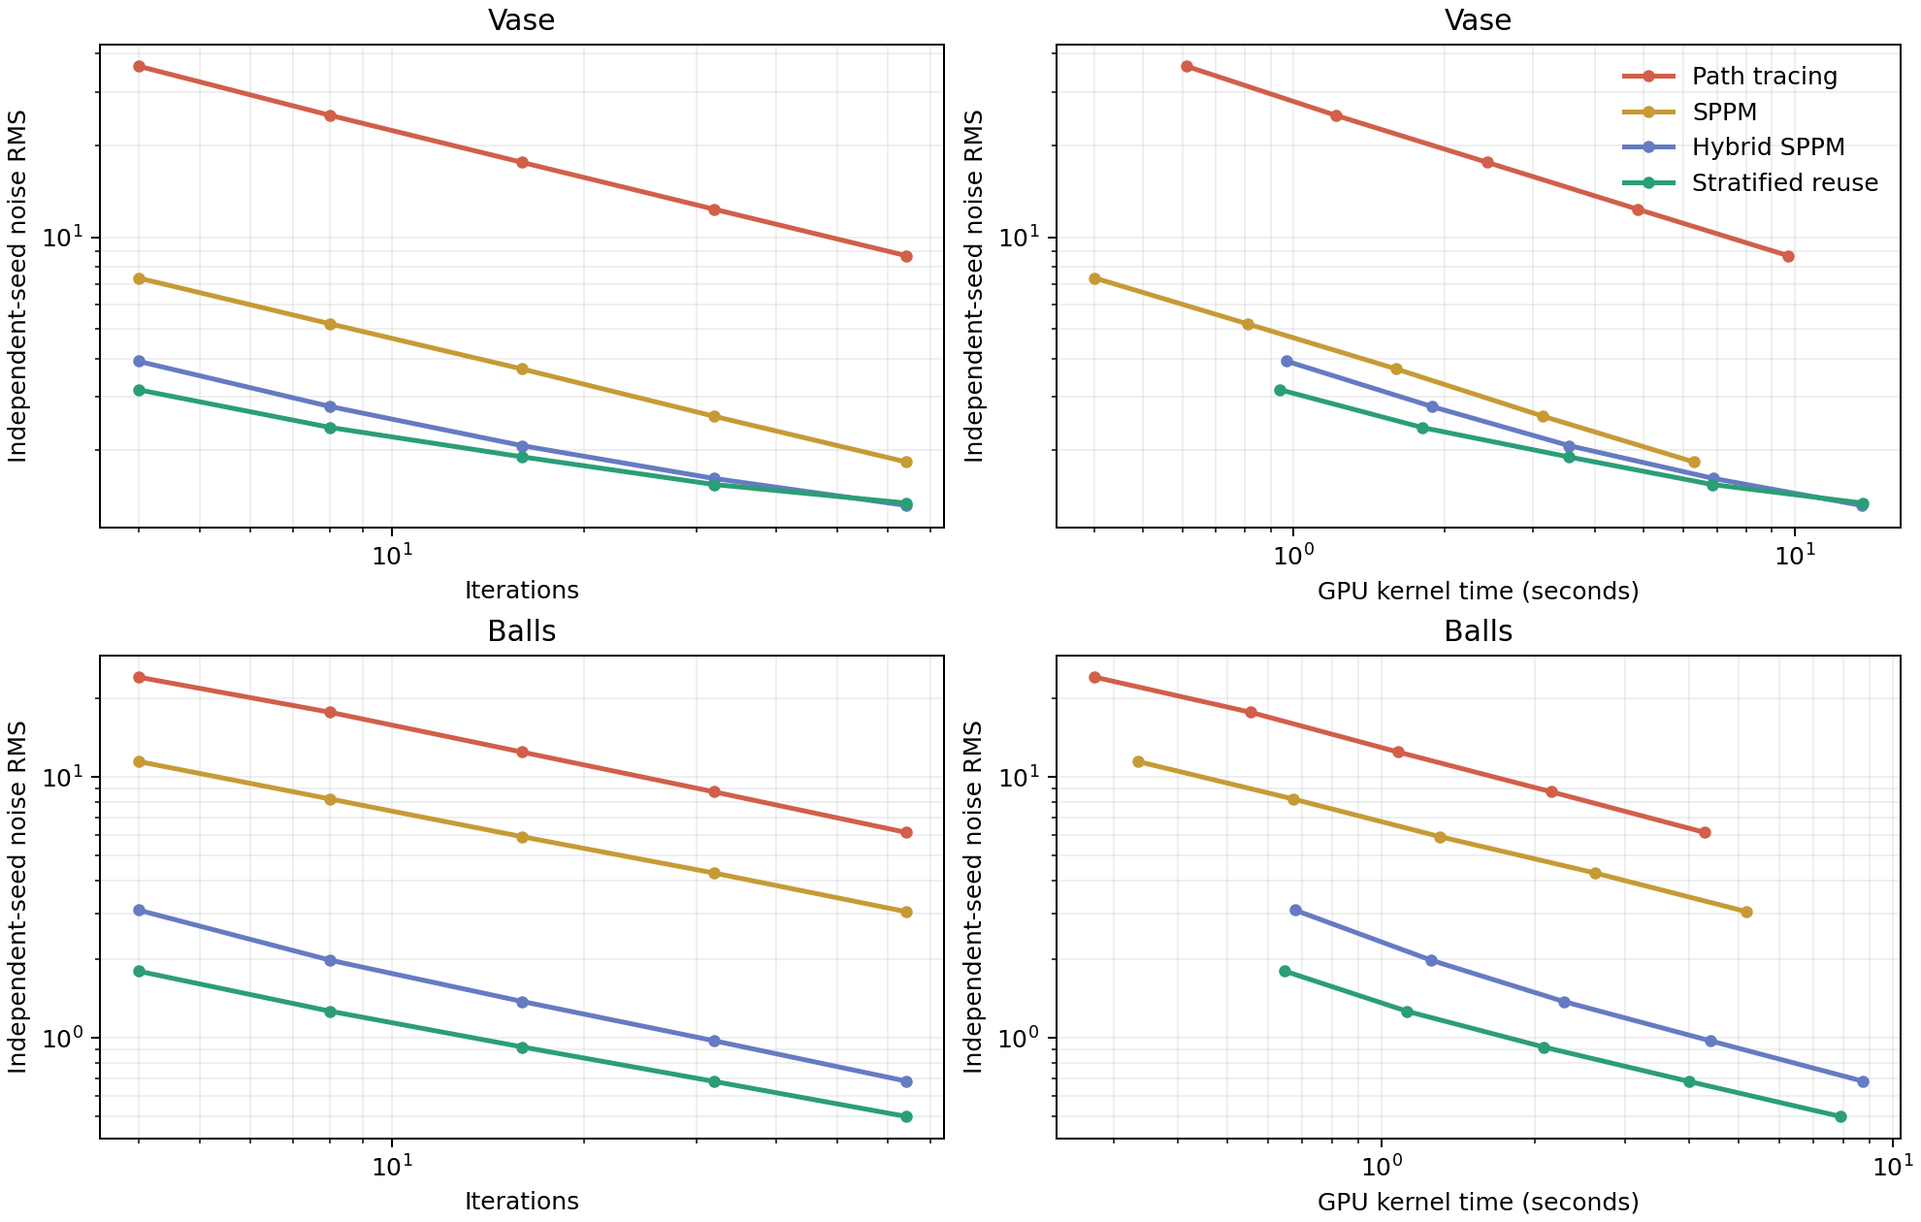
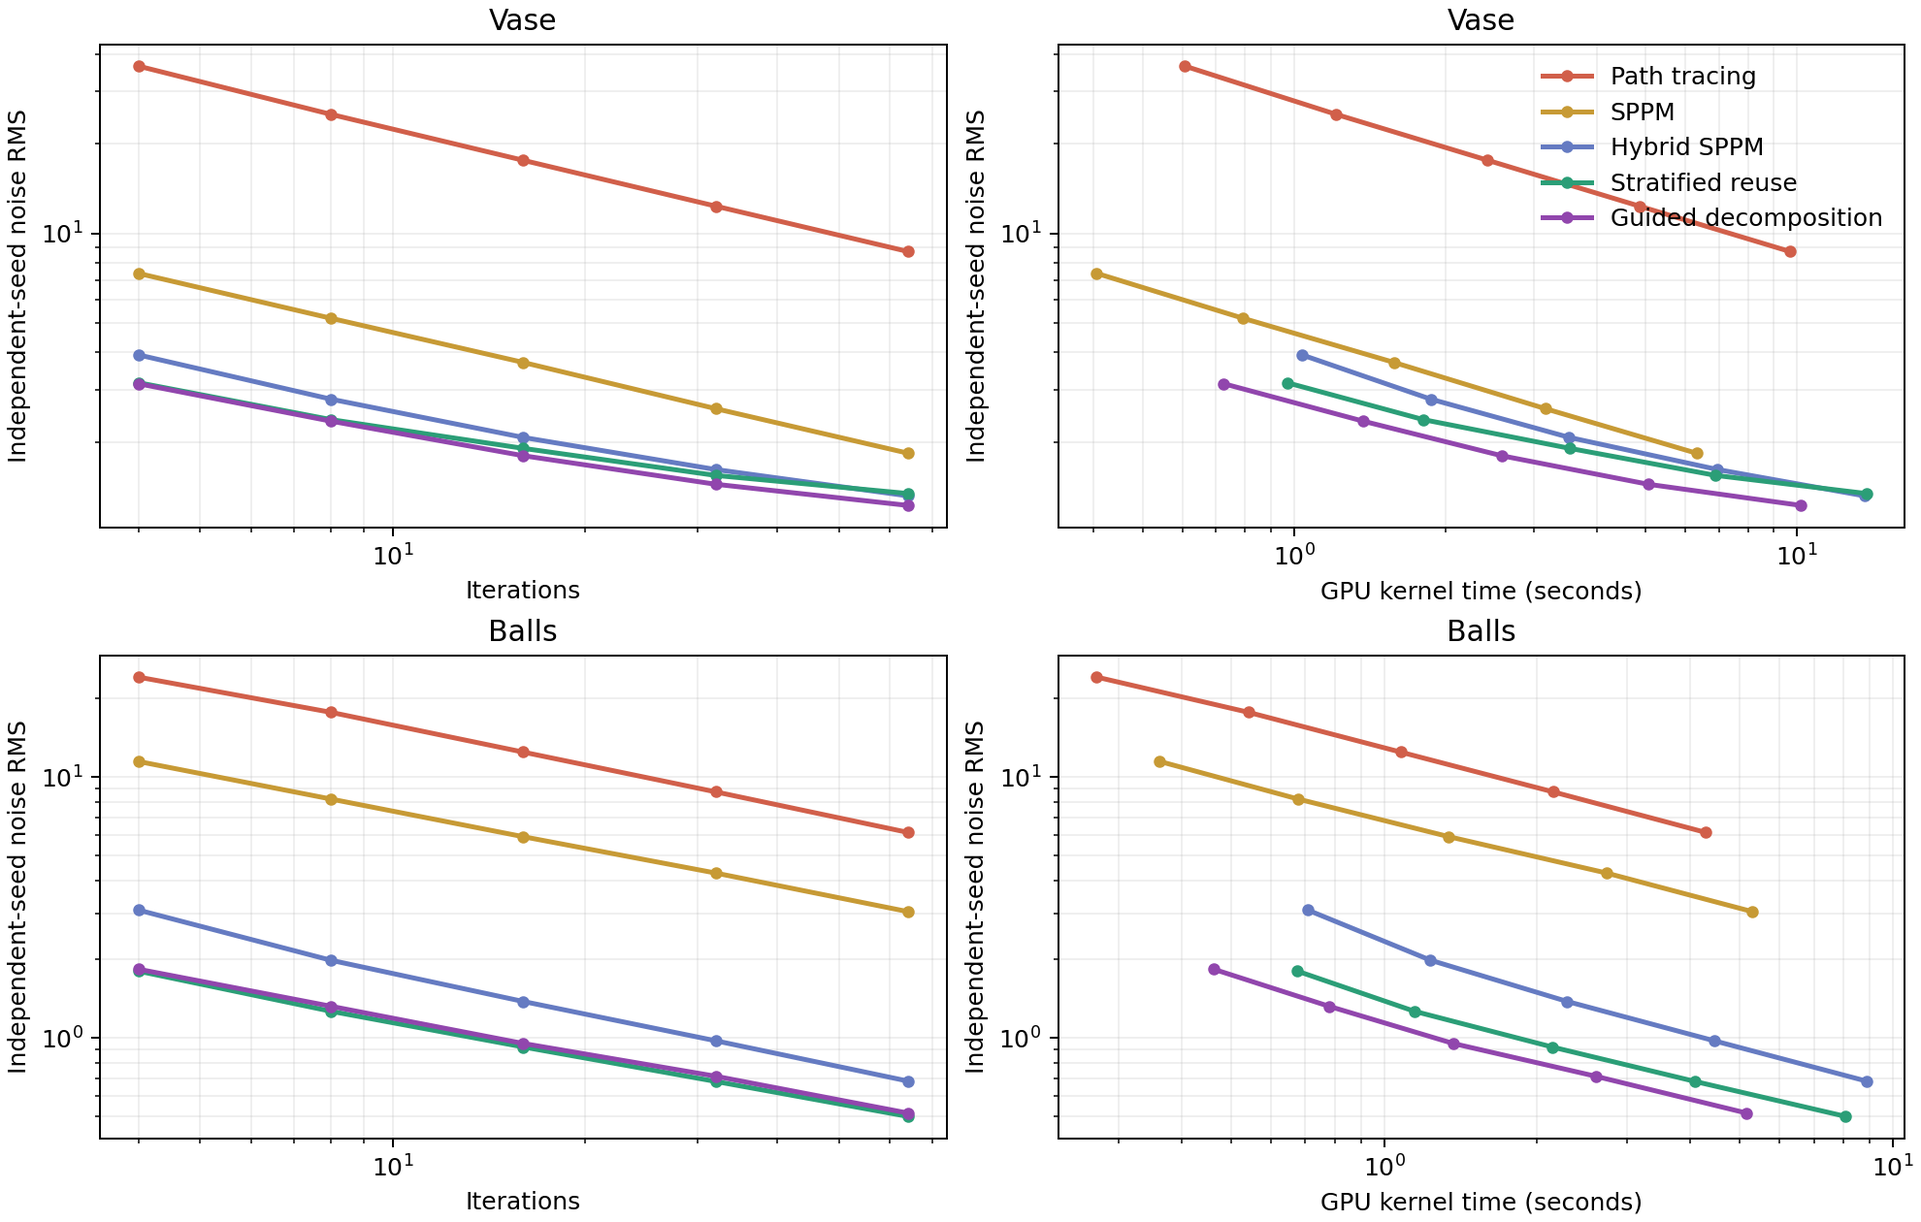
Add guided light decomposition and low-discrepancy photon transport

diff --git a/hw2/sppm/benchmark.py b/hw2/sppm/benchmark.py
@@ -34,11 +34,13 @@ def run_job(job, options, directory):
     else:
         command += [str(iterations), "5" if scene == "vase" else "8", ".5", "1"]
     command += ["--scene", scene, "--nearest", "--seed", str(seed)]
-    if algorithm in ("hybrid", "reuse"):
+    if algorithm in ("hybrid", "reuse", "guided"):
         command += ["--hybrid-samples", str(iterations * 16), "--reconstruction-radius",
                     "4" if scene == "vase" else "8"]
     if algorithm == "reuse":
         command.append("--reuse")
+    if algorithm == "guided":
+        command.append("--guided")
     result = subprocess.run(command, cwd=options.binary.parent,
                             env=dict(os.environ, CUDA_VISIBLE_DEVICES=str(gpu)),
                             text=True, stdout=subprocess.PIPE, stderr=subprocess.PIPE)
@@ -92,9 +94,10 @@ def summarize(records, width, height):
 def plot(summaries, destination):
     import matplotlib.pyplot as plt
 
-    colors = {"pt": "#d15f4a", "sppm": "#c79a35", "hybrid": "#657bc2", "reuse": "#2b9e77"}
+    colors = {"pt": "#d15f4a", "sppm": "#c79a35", "hybrid": "#657bc2", "reuse": "#2b9e77",
+              "guided": "#9146ad"}
     names = {"pt": "Path tracing", "sppm": "SPPM", "hybrid": "Hybrid SPPM",
-             "reuse": "Stratified reuse"}
+             "reuse": "Stratified reuse", "guided": "Guided decomposition"}
     figure, axes = plt.subplots(2, 2, figsize=(11, 7), constrained_layout=True)
     for row, scene in enumerate(("vase", "balls")):
         for algorithm in colors:
@@ -120,7 +123,7 @@ def main():
     parser = argparse.ArgumentParser(description=__doc__)
     parser.add_argument("--binary", type=Path, default=Path("./render-cuda"))
     parser.add_argument("--output", type=Path, default=Path("/tmp/sppm-convergence"))
-    parser.add_argument("--algorithms", default="pt,sppm,hybrid,reuse")
+    parser.add_argument("--algorithms", default="pt,sppm,hybrid,reuse,guided")
     parser.add_argument("--iterations", default="4,8,16,32,64")
     parser.add_argument("--seeds", default="0,1,2,3")
     parser.add_argument("--gpus", default="0")

diff --git a/README.md b/README.md
@@ -43,7 +43,7 @@ OpenMP: 2, GPU: 5
 其他额外效果: 凹凸贴图、体积光等: [5, ?]
 ```
 
-代码基于 smallpt，实现路径追踪（PT）、随机渐进式光子映射（SPPM）、CUDA Hybrid SPPM，以及进一步降低噪声的分层复用 Hybrid SPPM。原始花瓶场景与原 `balls` 分支的玻璃球场景现在都在 `master`，通过 `--scene vase` / `--scene balls` 直接切换，不需要 checkout 其他分支。旋转 Bezier 曲面、彩色纹理、镜面反射、玻璃折射和光源构图均保留原始设定。课程报告见 [hw2/report.pdf](hw2/report.pdf)。
+代码基于 smallpt，实现路径追踪（PT）、随机渐进式光子映射（SPPM）、CUDA Hybrid SPPM、分层复用 Hybrid SPPM，以及直接光分解和低差异引导的 Guided Hybrid SPPM。原始花瓶场景与原 `balls` 分支的玻璃球场景现在都在 `master`，通过 `--scene vase` / `--scene balls` 直接切换，不需要 checkout 其他分支。旋转 Bezier 曲面、彩色纹理、镜面反射、玻璃折射和光源构图均保留原始设定。课程报告见 [hw2/report.pdf](hw2/report.pdf)。
 
 ### 直接渲染结果
 
@@ -51,13 +51,13 @@ OpenMP: 2, GPU: 5
 
 **花瓶：**
 
-![花瓶场景：CUDA 混合低方差 SPPM 直接渲染](docs/render/vase-hybrid-sppm.png)
+![花瓶场景：CUDA Guided Hybrid SPPM 直接渲染](docs/render/vase-guided-sppm.png)
 
 **Balls：**
 
-![Balls 场景：CUDA 混合低方差 SPPM 直接渲染](docs/render/balls-hybrid-sppm.png)
+![Balls 场景：CUDA Guided Hybrid SPPM 直接渲染](docs/render/balls-guided-sppm.png)
 
-### 新算法：分层复用 Hybrid SPPM
+### 新算法：Guided Hybrid SPPM
 
 直接 PT 从相机随机寻找光源，漫反射表面上的大部分路径贡献很小；传统 SPPM 能稳定找到焦散，但容易把镜面高光和清晰倒影混进光子半径，或者把大量阴影样本浪费在看不见的光源上。新算法把同一条光传输积分拆成适合不同采样器的部分：
 
@@ -73,6 +73,18 @@ $$L_o = L_{\mathrm{diffuse,SPPM}} + L_{\mathrm{specular,PT}} + L_{\mathrm{direct
 
 换句话说，速度提升来自**减少无效光路、降低 estimator 方差、复用兼容样本并加速光子查询**，不是换掉场景、暗化画面或者把高光统一涂抹。实现见 [hw2/sppm/cuda.cu](hw2/sppm/cuda.cu)，完整实验脚本见 [hw2/sppm/benchmark.py](hw2/sppm/benchmark.py)。
 
+#### 再往前一步：从光传输积分减少无效工作
+
+对上一版 `--reuse` 做 Nsight profile 后，花瓶的 GPU 时间中 55% 是镜面/折射路径、45% 是光子；balls 是 53% 光子、40% 镜面/折射、6% 弱镜面。两轮空间重建合计不到 0.1%。因此继续调整后处理核不会带来速度突破；真正的问题是同一份直接光被低效光子估计，以及大量低贡献光子在场景里反弹太久。
+
+`--guided` 在已有分层复用之上增加三项改变：
+
+1. **无重叠地分解直接光与间接光。** 对存在外露光源的场景，摄像机可见点使用 next-event estimation 直接连接面积光；该光源的第一跳 diffuse 光子不再进入 photon gather。这样 $L_{\mathrm{direct}}$ 不会被算两次，光子预算专门留给间接照明、折射和焦散。被玻璃包住的光源仍使用完整光子路径，不会被错误当作可见面积光。
+2. **四维随机化低差异发光。** 对每个光子联合分层光源表面的两个坐标和余弦半球方向的两个坐标；每轮、每个 seed 都有独立 Cranley–Patterson 随机旋转。与互相独立的随机数相比，同样数量的光子能更均匀地覆盖发光位置与出射方向，同时保持正确的发射分布。
+3. **只对光子提前做无偏 Russian roulette。** 摄像机侧的反射、玻璃和花瓶高光仍完整追踪；低贡献光子从第一跳后开始按材质反照率决定是否继续，存活路径乘回 $1/p_{\mathrm{survive}}$。改变的是路径长度的计算成本，不是光传输积分或场景颜色。
+
+光源是否外露、低差异序列以及 Russian roulette 生存概率都由场景几何和材质自动决定，不识别特定场景名称、固定颜色或贴图文件。constant memory、可见对象 bitmask、把大球近似成平面，以及对玻璃分支强行分层也都做过实测，但分别造成访存串行化、额外同步或方差升高，因此没有放进最终实现。
+
 #### 同场景渲染对比
 
 下面的图使用相同场景、相机、光源和原始颜色；PT、普通 SPPM 与 Hybrid SPPM 分别单独直接渲染，不做后期调色。
@@ -83,46 +95,51 @@ $$L_o = L_{\mathrm{diffuse,SPPM}} + L_{\mathrm{specular,PT}} + L_{\mathrm{direct
 | CUDA SPPM | ![花瓶 SPPM](docs/render/vase-sppm.png) | ![Balls SPPM](docs/render/balls-sppm.png) |
 | CUDA Hybrid SPPM | ![花瓶 Hybrid SPPM](docs/render/vase-hybrid-comparison.png) | ![Balls Hybrid SPPM](docs/render/balls-hybrid-comparison.png) |
 | CUDA 分层复用 Hybrid SPPM | ![花瓶分层复用 Hybrid SPPM](docs/render/vase-reuse-comparison.png) | ![Balls 分层复用 Hybrid SPPM](docs/render/balls-reuse-comparison.png) |
+| CUDA Guided Hybrid SPPM | ![花瓶 Guided Hybrid SPPM](docs/render/vase-guided-comparison.png) | ![Balls Guided Hybrid SPPM](docs/render/balls-guided-comparison.png) |
 
-以上对比图分辨率均为 960×540；PT 使用每子像素 64 次采样，三种 SPPM 均使用 48 轮，花瓶每轮每像素 5 个光子、balls 每轮每像素 8 个光子。因为四种 estimator 的计算量不同，图片仅展示各自固定参数下的直接渲染效果；迭代次数、实际时间和独立 seed 噪声的严格对比见下表。
+以上对比图分辨率均为 960×540；PT 使用每子像素 64 次采样，四种 SPPM 均使用 48 轮，花瓶每轮每像素 5 个光子、balls 每轮每像素 8 个光子。因为五种 estimator 的计算量不同，图片仅展示各自固定参数下的直接渲染效果；迭代次数、实际时间和独立 seed 噪声的严格对比见下表。
 
-#### 160 次直接渲染的收敛基准
+#### 200 次直接渲染的收敛基准
 
-测试使用一张 NVIDIA H200、640×360 分辨率、四个独立随机种子，以及 4、8、16、32、64 五个迭代档位。PT 的“16 轮”等价于每子像素 128 次采样；其他算法是 16 轮光子映射。每个场景分别在五个固定区域测量 8-bit 亮度的跨 seed RMS，并对五个区域取 RMS 作为综合噪声；CUDA event 只统计 GPU kernel 时间，不包括 CUDA 初始化、贴图上传或图像写出。
+测试使用一张 NVIDIA H200、640×360 分辨率、五种算法、四个独立随机种子，以及 4、8、16、32、64 五个迭代档位，共 200 次独立直接渲染。PT 的“16 轮”等价于每子像素 128 次采样；其他算法是 16 轮光子映射。每个场景分别在五个固定区域测量 8-bit 亮度的跨 seed RMS，并对五个区域取 RMS 作为综合噪声；CUDA event 只统计 GPU kernel 时间，不包括 CUDA 初始化、贴图上传或图像写出。
 
-![四种算法按迭代次数和 GPU 实际耗时计算的独立随机种子噪声收敛曲线](docs/render/convergence.png)
+![五种算法按迭代次数和 GPU 实际耗时计算的独立随机种子噪声收敛曲线](docs/render/convergence.png)
 
 **16 轮、四个独立随机种子：**
 
 | 场景 | 算法 | GPU kernel | 综合噪声 RMS | 重点区域 A | 重点区域 B |
 | --- | --- | ---: | ---: | ---: | ---: |
-| 花瓶 | PT | 2.434 s | 17.615 | 白瓷 18.721 | 蓝花 19.021 |
-| 花瓶 | SPPM | 1.603 s | 3.699 | 白瓷 4.056 | 蓝花 4.932 |
-| 花瓶 | Hybrid SPPM | 3.547 s | 2.073 | 白瓷 2.179 | 蓝花 2.045 |
-| 花瓶 | 分层复用 Hybrid | 3.534 s | **1.905** | 白瓷 **1.958** | 蓝花 **1.862** |
-| Balls | PT | 1.079 s | 12.447 | 背景 13.898 | 玻璃 16.470 |
-| Balls | SPPM | 1.302 s | 5.901 | 背景 6.131 | 玻璃 6.129 |
-| Balls | Hybrid SPPM | 2.271 s | 1.379 | 背景 1.315 | 玻璃 1.934 |
-| Balls | 分层复用 Hybrid | 2.074 s | **0.923** | 背景 **0.883** | 玻璃 **0.999** |
+| 花瓶 | PT | 2.429 s | 17.615 | 白瓷 18.721 | 蓝花 19.021 |
+| 花瓶 | SPPM | 1.581 s | 3.699 | 白瓷 4.056 | 蓝花 4.932 |
+| 花瓶 | Hybrid SPPM | 3.527 s | 2.073 | 白瓷 2.179 | 蓝花 2.045 |
+| 花瓶 | 分层复用 Hybrid | 3.535 s | 1.905 | 白瓷 1.958 | 蓝花 1.862 |
+| 花瓶 | **Guided Hybrid** | **2.587 s** | **1.800** | 白瓷 2.085 | 蓝花 **1.862** |
+| Balls | PT | 1.078 s | 12.447 | 背景 13.898 | 玻璃 16.470 |
+| Balls | SPPM | 1.341 s | 5.901 | 背景 6.131 | 玻璃 6.129 |
+| Balls | Hybrid SPPM | 2.291 s | 1.379 | 背景 1.315 | 玻璃 1.934 |
+| Balls | 分层复用 Hybrid | 2.139 s | **0.923** | 背景 **0.883** | 玻璃 **0.999** |
+| Balls | **Guided Hybrid** | **1.367 s** | 0.952 | 背景 1.037 | 玻璃 1.044 |
 
-**旧 Hybrid 与新算法的完整迭代曲线：**
+**三代 Hybrid 算法的完整迭代曲线：**
 
-| 场景 | 迭代 | 旧 Hybrid 噪声 / 时间 | 分层复用噪声 / 时间 |
-| --- | ---: | ---: | ---: |
-| 花瓶 | 4 | 3.922 / 0.969 s | **3.163** / 0.939 s |
-| 花瓶 | 8 | 2.786 / 1.887 s | **2.379** / 1.803 s |
-| 花瓶 | 16 | 2.073 / 3.547 s | **1.905** / 3.534 s |
-| 花瓶 | 32 | 1.618 / 6.887 s | **1.546** / 6.844 s |
-| 花瓶 | 64 | **1.320** / 13.588 s | 1.344 / 13.646 s |
-| Balls | 4 | 3.089 / 0.677 s | **1.802** / 0.647 s |
-| Balls | 8 | 1.984 / 1.251 s | **1.265** / 1.122 s |
-| Balls | 16 | 1.379 / 2.271 s | **0.923** / 2.074 s |
-| Balls | 32 | 0.975 / 4.396 s | **0.681** / 3.994 s |
-| Balls | 64 | 0.683 / 8.730 s | **0.500** / 7.900 s |
+| 场景 | 迭代 | 旧 Hybrid 噪声 / 时间 | 分层复用噪声 / 时间 | Guided 噪声 / 时间 |
+| --- | ---: | ---: | ---: | ---: |
+| 花瓶 | 4 | 3.921 / 1.037 s | 3.163 / 0.969 s | **3.138 / 0.725 s** |
+| 花瓶 | 8 | 2.786 / 1.871 s | 2.379 / 1.807 s | **2.351 / 1.372 s** |
+| 花瓶 | 16 | 2.073 / 3.527 s | 1.905 / 3.535 s | **1.800 / 2.587 s** |
+| 花瓶 | 32 | 1.618 / 6.951 s | 1.546 / 6.895 s | **1.444 / 5.060 s** |
+| 花瓶 | 64 | 1.320 / 13.620 s | 1.344 / 13.746 s | **1.226 / 10.193 s** |
+| Balls | 4 | 3.089 / 0.708 s | **1.802** / 0.675 s | 1.833 / **0.462 s** |
+| Balls | 8 | 1.984 / 1.234 s | **1.265** / 1.146 s | 1.322 / **0.779 s** |
+| Balls | 16 | 1.379 / 2.291 s | **0.923** / 2.139 s | 0.952 / **1.367 s** |
+| Balls | 32 | 0.975 / 4.457 s | **0.681** / 4.086 s | 0.713 / **2.605 s** |
+| Balls | 64 | 0.683 / 8.880 s | **0.500** / 8.084 s | 0.515 / **5.163 s** |
 
-固定质量下可以用 $\sigma^2 t$ 比较方差—时间成本，越低越好。16 轮时，balls 从 4.319 降到 1.767，效率提升 **2.44×**；花瓶从 15.242 降到 12.826，提升 **1.19×**。balls 达到综合噪声 RMS < 1 时，旧 Hybrid 需要 32 轮 / 4.396 s，新算法只需要 16 轮 / 2.074 s。按 $\sigma \propto n^{-p}$ 拟合 4–64 轮，balls 上旧 Hybrid $p=0.538$、新算法 $p=0.459$：收益主要来自更低的方差常数和单轮成本，并没有改变 Monte Carlo 的渐近阶数；花瓶在 64 轮时优势也基本消失，不应把短预算下的收益外推成任意场景都更快。
+固定质量下可以用 $\sigma^2 t$ 比较方差—时间成本，越低越好。16 轮时，花瓶的成本从旧 Hybrid 的 15.155、分层复用的 12.830 降到 Guided 的 8.383，分别提升 **1.81×** 和 **1.53×**；balls 从 4.356、1.822 降到 1.239，分别提升 **3.52×** 和 **1.47×**。balls 达到综合噪声 RMS < 1 时，旧 Hybrid 需要 32 轮 / 4.457 s，分层复用需要 16 轮 / 2.139 s，Guided 同样只需要 16 轮，但耗时进一步降到 **1.367 s**。花瓶达到 RMS < 1.5 时，前两代都需要 64 轮，而 Guided 在 **32 轮 / 5.060 s** 就能达到。
 
-颜色与细节同时作为约束：16 轮时 balls 背景亮度 49.26 → 49.27，花瓶整体亮度 128.51 → 128.57；彩色条纹边缘梯度 430.38 → 430.30，地板倒影边缘 155.32 → 153.65。玻璃边缘 57.44 → 54.16，存在约 5.7% 的邻域复用平滑代价。完整原始指标见 [docs/render/convergence.csv](docs/render/convergence.csv)，可运行下文的 `benchmark.py` 原样复现。
+按 $\sigma \propto n^{-p}$ 拟合 4–64 轮，花瓶上旧 Hybrid / 分层复用 / Guided 分别为 $p=0.393/0.309/0.341$，balls 分别为 $p=0.538/0.459/0.455$。算法没有突破 Monte Carlo 的渐近阶数；收益来自更小的方差常数、更短的无效光子路径，以及同样时间下能跑更多轮。balls 同迭代的背景噪声会略高于分层复用，但整体方差—时间成本更低，不能把“更快”和“每轮每个区域都更干净”混为一谈。
+
+颜色与细节同时作为约束：16 轮时，分层复用 → Guided 的 balls 背景亮度 49.27 → 49.28，花瓶整体亮度 128.57 → 128.58，蓝色花纹亮度同为 175.61；彩色条纹边缘梯度同为 430.30，地板倒影边缘 153.65 → 153.74，玻璃边缘 54.16 → 54.02。花瓶地板亮度 166.38 → 166.98，来自直接光照改用 NEE 而不是后期调色。完整原始指标见 [docs/render/convergence.csv](docs/render/convergence.csv)，可运行下文的 `benchmark.py` 原样复现。
 
 在一张 NVIDIA H200 上，以 640×360 分辨率对比 16 线程 CPU：
 
@@ -205,39 +222,39 @@ nvcc -O3 -arch=sm_90 -std=c++17 cuda.cu -o render-cuda
 ./render-cuda 640 360 balls-pt.ppm 32 --scene balls
 ```
 
-5. 使用同一个二进制渲染普通 SPPM、旧版 Hybrid，或新的分层复用 Hybrid：
+5. 使用同一个二进制渲染普通 SPPM、旧版 Hybrid，或最新的 Guided Hybrid：
 
 ```bash
 # 花瓶：普通 SPPM
 ./render-cuda 960 540 vase-sppm.ppm 48 5 .45 1 \
   --scene vase --nearest
 
-# 花瓶：分层复用 Hybrid SPPM，保留白瓷高光、蓝色纹样和地板星星
-./render-cuda 1920 1080 vase-reuse.ppm 96 5 .35 1 \
+# 花瓶：Guided Hybrid SPPM，保留白瓷高光、蓝色纹样和地板星星
+./render-cuda 1920 1080 vase-guided.ppm 96 5 .35 1 \
   --scene vase --nearest --shadow-samples 2 \
-  --hybrid-samples 2048 --reconstruction-radius 4 --reuse
+  --hybrid-samples 2048 --reconstruction-radius 4 --guided
 
 # Balls：同一套算法，自动设置原分支的相机和五个球内光源
-./render-cuda 1920 1080 balls-reuse.ppm 96 8 .4 1 \
+./render-cuda 1920 1080 balls-guided.ppm 96 8 .4 1 \
   --scene balls --nearest --hybrid-samples 2048 \
-  --reconstruction-radius 8 --reuse
+  --reconstruction-radius 8 --guided
 
 # 8K 花瓶；高分辨率下相应缩小光子汇合半径
 ./render-cuda 7680 4320 vase-8k.ppm 64 1 .1 1 \
   --scene vase --nearest --hybrid-samples 384 \
-  --reconstruction-radius 6 --reuse
+  --reconstruction-radius 6 --guided
 ```
 
-前四个位置参数表示 `宽度 高度 输出文件 每子像素采样数`，对应 PT；再提供 `每像素光子数 初始半径 alpha` 就切换到 SPPM。`--reuse` 打开新算法；去掉它即可对比原来的 Hybrid SPPM。CUDA SPPM 只输出最终结果。多卡机器用 `CUDA_VISIBLE_DEVICES=0` 指定 GPU。
+前四个位置参数表示 `宽度 高度 输出文件 每子像素采样数`，对应 PT；再提供 `每像素光子数 初始半径 alpha` 就切换到 SPPM。`--reuse` 打开分层复用算法，`--guided` 在其基础上进一步启用直接光分解、低差异发光和无偏光子路径终止；两者都不加则保留原来的 Hybrid SPPM。CUDA SPPM 只输出最终结果。多卡机器用 `CUDA_VISIBLE_DEVICES=0` 指定 GPU。
 
 6. 可选：无损转换成网页可直接显示的 PNG：
 
 ```bash
 python3 -m pip install Pillow
-python3 -c 'from PIL import Image; Image.open("vase-reuse.ppm").save("vase-reuse.png")'
+python3 -c 'from PIL import Image; Image.open("vase-guided.ppm").save("vase-guided.png")'
 ```
 
-7. 复现实验；下面会渲染两个场景、四种算法、五个迭代档位、四个随机种子，共 160 张图：
+7. 复现实验；下面会渲染两个场景、五种算法、五个迭代档位、四个随机种子，共 200 张图：
 
 ```bash
 python3 -m pip install numpy Pillow scipy matplotlib
@@ -258,6 +275,7 @@ python3 benchmark.py --binary ./render-cuda \
 | --- | --- | --- |
 | 场景 | `--scene vase` / `--scene balls` | 同时切换场景、光源和默认相机 |
 | 分层复用 | `--reuse` | 光源与材质分层、菲涅耳重要性采样、几何约束复用和 9-cell 平面光子查询 |
+| 传输引导 | `--guided` | 包含 `--reuse`，另加直接光 NEE 分解、四维低差异光子发射和无偏路径终止 |
 | 镜面分层 | `--hybrid-samples 2048` | 独立采样稀有镜面和折射，保留真实 BSDF 权重 |
 | 引导重建 | `--reconstruction-radius 4` | 根据物体、法线、反照率、深度和局部方差压低随机噪声 |
 | 独立随机序列 | `--seed 7` | 让相机、光子和材质采样可复现 |
